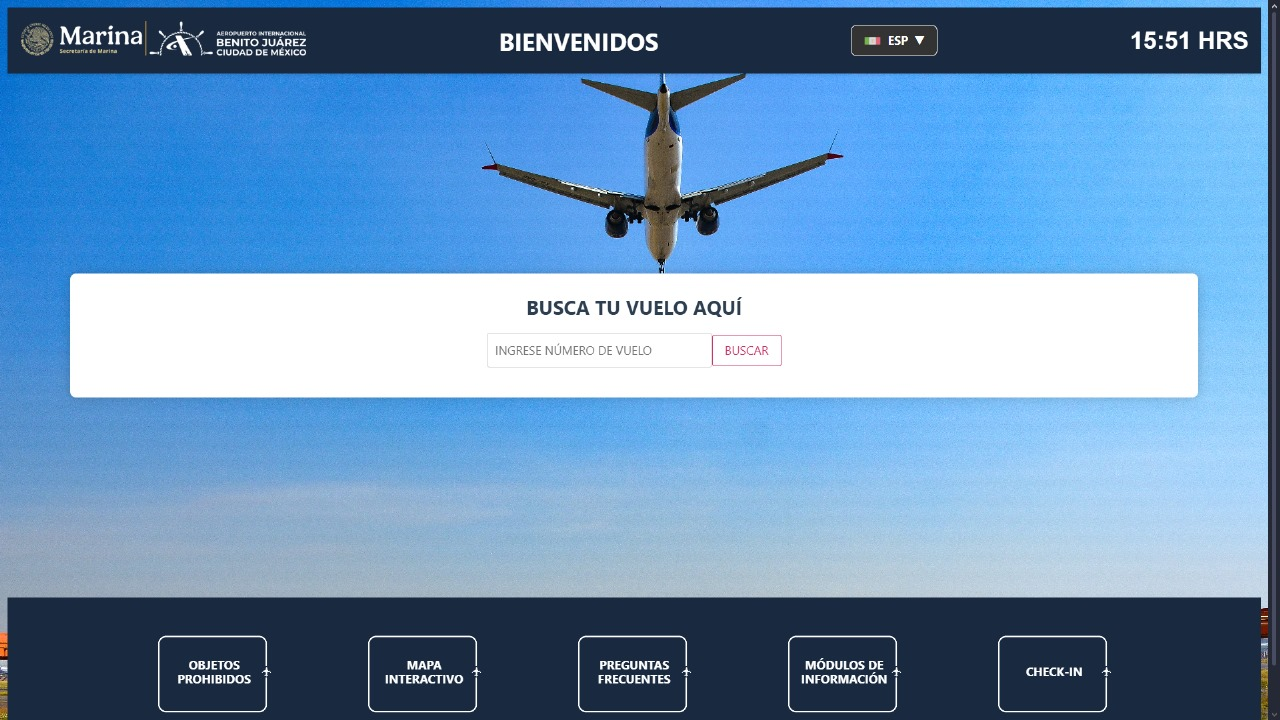
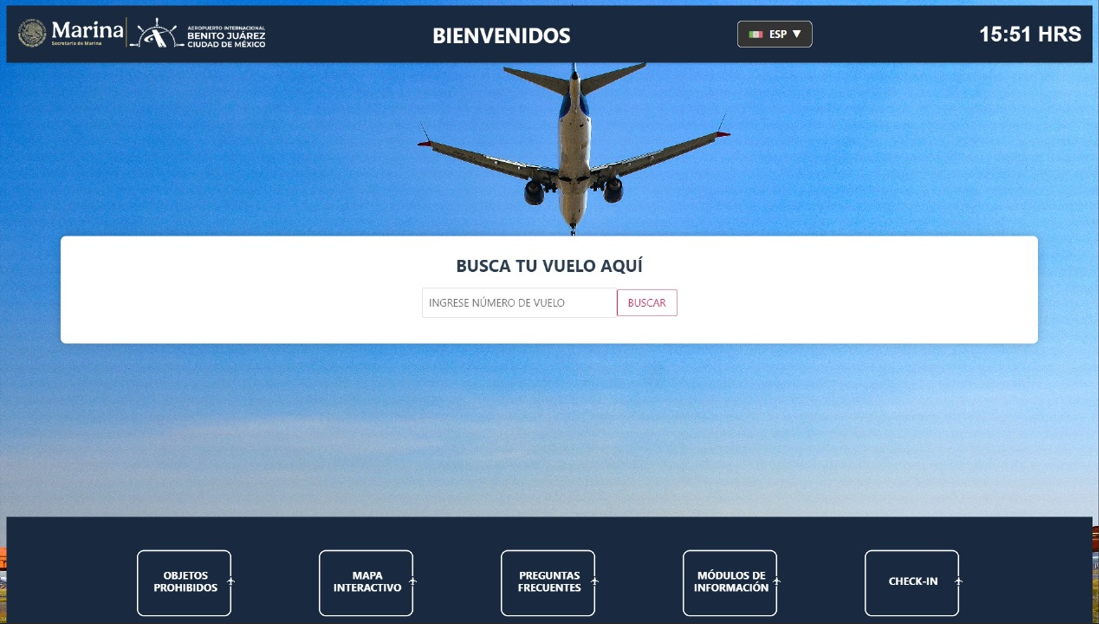
car

Changed region(s): [[0.0, 0.0, 1.0, 1.0], [0.0619, 0.5481, 0.9281, 0.5785], [0.0, 0.9135, 0.0309, 0.9439]]

diff --git a/index.html b/index.html
@@ -270,7 +270,7 @@ Integro conocimientos sólidos en electrónica, teoría de control, automatizaci
     </button>
 
      <div class="modal-img">
-      <img id="imgModalMapa" src="img/mapaVirtC/mapVirt2.jpg">
+      <img id="imgModalMapa" src="img/mapaVirtC/mapVirt2.png">
      </div>
 
     <button class="btnImgModalRight" onclick="moverImagen('imgModalMapa', imagenesModalMapa, 1)">
@@ -507,7 +507,7 @@ Integro conocimientos sólidos en electrónica, teoría de control, automatizaci
     </button>
 
      <div class="modal-img">
-      <img id="imgModalCarro" src="img/mapaFidsC/mapaFids.jpg">
+      <img id="imgModalCarro" src="img/carroC/car1.jpg">
      </div>
 
     <button class="btnImgModalRight" onclick="moverImagen('imgModalCarro', imagenesModalCarro, 1)">
@@ -524,7 +524,14 @@ Integro conocimientos sólidos en electrónica, teoría de control, automatizaci
     </div>
 
     <div class="modal-content">
-      <p>Documentacion del proyecto</p>
+      <p><strong>Vehículo Robótico Controlado por Gestos con Sistema Anticolisión</strong>
+        <br><br>Proyecto desarrollado en la Universidad Tecnológica de México (UNITEC), enfocado en el diseño de un vehículo robótico controlado de manera remota mediante reconocimiento de gestos de la mano a través de un mando tipo guante inteligente.
+        <br><br>El sistema fue diseñado para demostrar una interacción más intuitiva entre el usuario y plataformas móviles, reemplazando controles convencionales por movimientos naturales de la mano. Además, incorpora mecanismos de detección de obstáculos para mejorar la seguridad de navegación y evitar colisiones durante su operación.
+        <br><br>El vehículo está construido sobre una plataforma móvil impulsada por motores de corriente directa (CD) y controlada mediante un Arduino Uno. Para la detección del entorno, se integró un sensor ultrasónico montado sobre un servomotor, permitiendo realizar barridos laterales tipo radar para identificar obstáculos y ejecutar maniobras preventivas de evasión.
+        <br><br>La comunicación inalámbrica entre el vehículo y el mando se realiza mediante módulos transceptores de radiofrecuencia, permitiendo el envío continuo de comandos de movimiento y control.
+        <br><br>El mando consiste en un guante inteligente desarrollado con un ESP32, encargado de procesar la lógica de interpretación de gestos. El sistema utiliza sensores capacitivos y sensores resistivos ubicados en los dedos para detectar posiciones y movimientos de la mano, traduciendo estas señales en comandos de control para el vehículo. Entre las acciones implementadas se incluyen avance, retroceso, giros en ambos sentidos y rotación sobre su propio eje.
+        <br><br>Como parte del enfoque de construcción del proyecto, se priorizó el uso de materiales reciclados para el desarrollo físico tanto del vehículo como del sistema de control, promoviendo soluciones funcionales y de bajo costo aplicadas a proyectos de robótica y automatización.
+        <br><br>El proyecto integra conceptos de robótica móvil, comunicación inalámbrica, procesamiento de señales, interacción humano-máquina y sistemas embebidos, combinando hardware y software en una plataforma interactiva de control gestual.</p>
     </div>
 
     <div class="list-tools">

diff --git a/script.js b/script.js
@@ -399,9 +399,9 @@ const imagenesModalBrazo = [
   "img/brazoC/brazo3.jpg"
 ];
 const imagenesModalCarro = [
-  "img/mapaFidsC/mapaFids.jpg",
-  "img/mapaFidsC/mapaFids2.jpg",
-  "img/mapaFidsC/mapaFids3.jpg"
+  "img/carroC/car1.jpg",
+  "img/carroC/car2.jpg",
+  "img/carroC/car3.jpg"
 ];
 const imagenesModalGeneral = [
   "img/mapaFidsC/mapaFids.jpg",